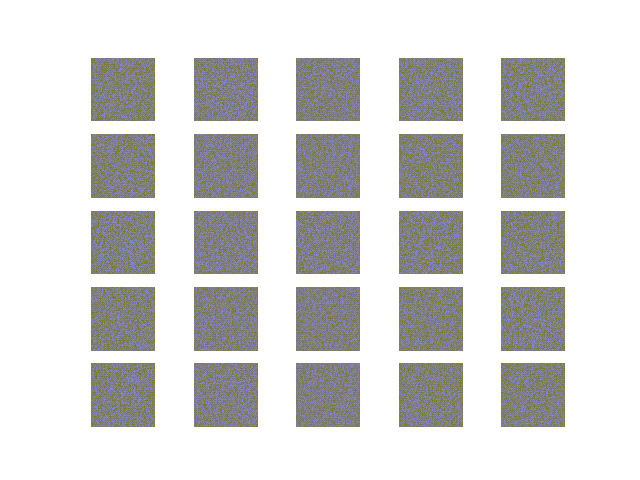
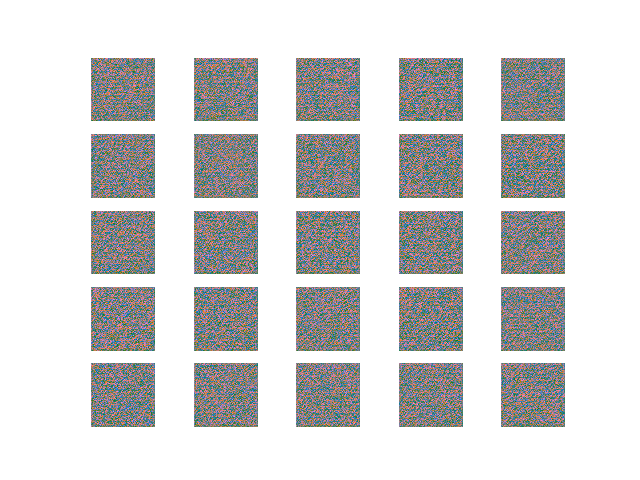
hw3

diff --git a/hw3/hw3-1/Model.py b/hw3/hw3-1/Model.py
@@ -31,7 +31,9 @@ WGANCLIP  = 0.01
 class Generator(nn.Module):
     def __init__(self):
         super(Generator, self).__init__()
-        self.to_2d = nn.Linear(100, 128*16*16)
+        self.to_2d = nn.Sequential(nn.Linear(100, 128*16*16),
+                                   nn.LeakyReLU(),
+                                   )
         self.conv_layers = nn.Sequential(nn.ConvTranspose2d(128, 
                                                             128, 
                                                             kernel_size=4, 

diff --git a/hw3/hw3-1/inference.py b/hw3/hw3-1/inference.py
@@ -112,7 +112,7 @@ def main(args):
     ------//
     """
     
-    test_generator = torch.load(args.model_directory + args.model_name + '_epoch_' + '20' + '_generator.pkl').eval().cuda()
+    test_generator = torch.load(args.model_directory + args.model_name + '_epoch_' + '9' + '_generator.pkl').eval().cuda()
     #test_discriminator = torch.load(args.model_directory + args.model_name + '_epoch_' + args.epoch + '_discriminator.pkl').cuda()
 
     noise_distribution = torch.distributions.Normal(torch.Tensor([0.0]), torch.Tensor([1.0]))
